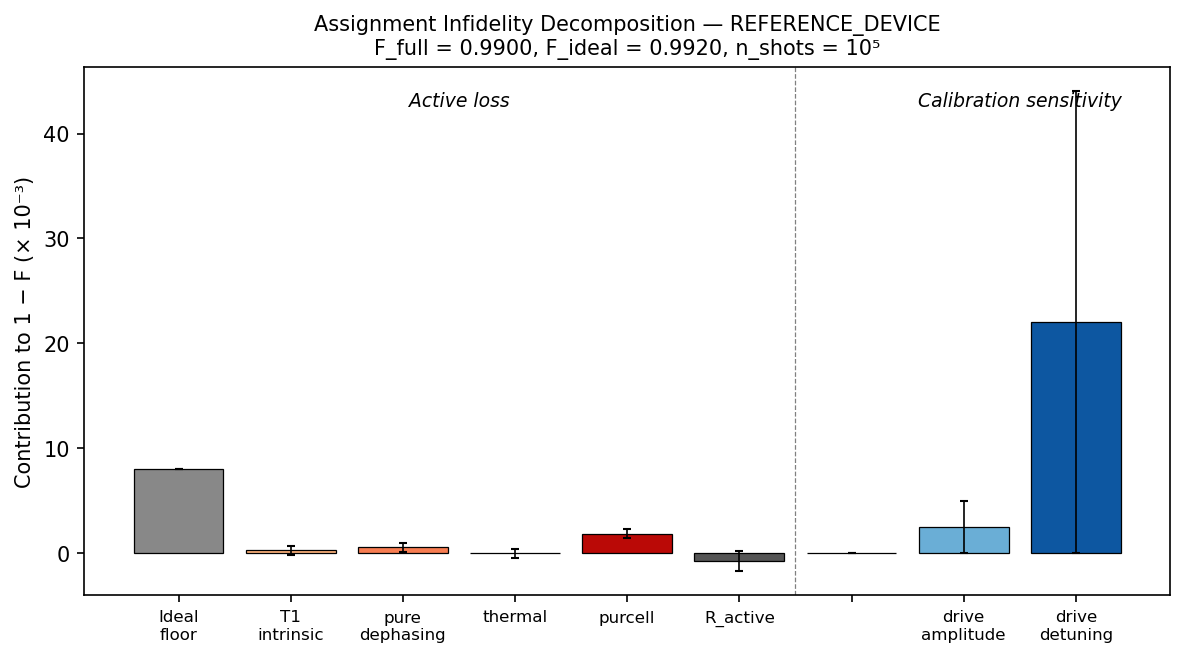
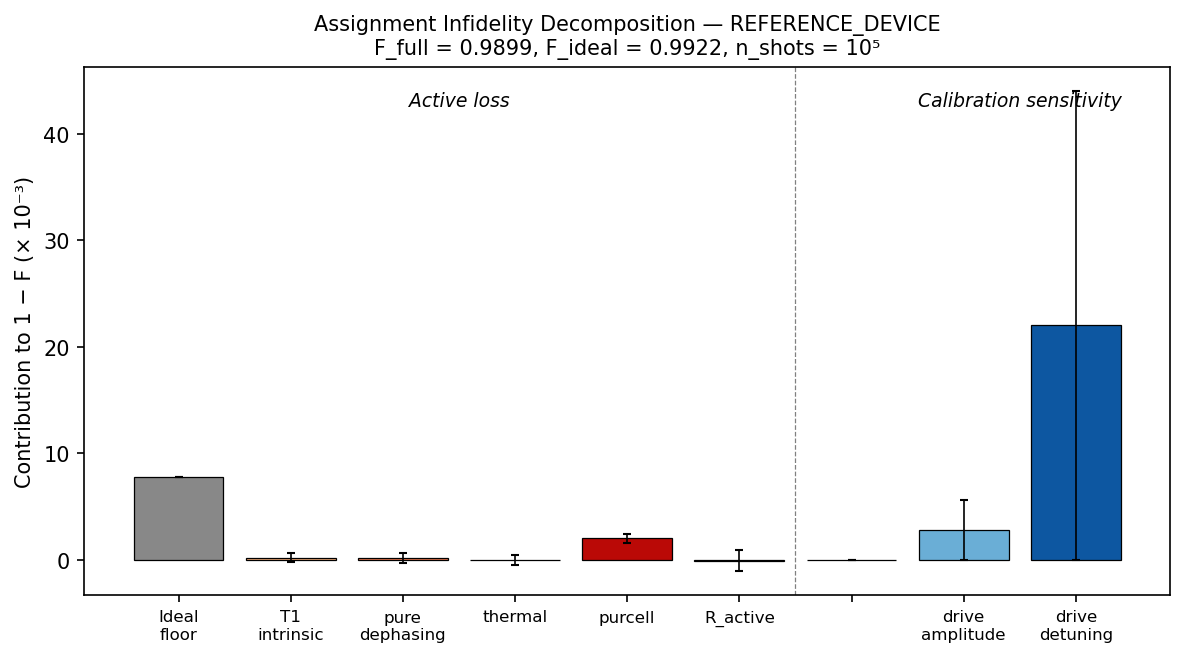
feat(stage06): Figure 2 publication polish + methods note
Module 2 Task 13. Adds n̄/n_crit computation to the script (Shillito
2022 Eq. boundary check). Measured n̄/n_crit = 0.062 at REFERENCE,
substituted into the methods note. Ratio is just above spec §9 flag #7
expected range (0.03–0.05) but well below the 0.2 onset threshold;
operating point is safely in the dispersive regime.

FIGURE_2_CAPTION.md holds the two-tier caption + methods note ready
for copy-paste into the final report and README.

diff --git a/06_Dispersive_Readout/scripts/fig2_error_budget.py b/06_Dispersive_Readout/scripts/fig2_error_budget.py
@@ -165,6 +165,33 @@ def _render_candidate_A(budget: ErrorBudget, path: Path) -> None:
     plt.close(fig)
 
 
+def _compute_n_bar_over_n_crit(op) -> tuple[float, float, float]:
+    """Return (n̄_peak, n_crit, ratio) at the operating point.
+
+    n_crit = (Δ_10 / (2g))² per Shillito 2022. n̄_peak is the maximum
+    mean-photon-number measured in a baseline simulation starting in |1⟩
+    (the worse case; drive populates the resonator more there).
+    """
+    from dispersive_readout.physics import simulate_readout
+    from dispersive_readout.physics.transmon import (
+        charge_operator_matrix_elements, diagonalize_transmon,
+    )
+
+    device = op.device
+    tr = device.truncation
+    energies, _ = diagonalize_transmon(device.transmon, tr)
+    g = device.coupling.g
+    omega_r = device.resonator.omega_r
+    delta_10 = energies[1] - energies[0] - omega_r
+    n_crit = (delta_10 / (2.0 * g)) ** 2
+
+    # Peak photon number from a |1> baseline sim
+    r = simulate_readout(device, op.drive, initial_qubit_state=1)
+    n_bar_peak = float(r.photon_number.max())
+
+    return n_bar_peak, float(n_crit), n_bar_peak / float(n_crit)
+
+
 def main() -> None:
     print("Computing reference operating point (calibration + verification)...")
     # n_shots=100_000 per amendment 8: recovers physics-dominated regime so
@@ -181,6 +208,9 @@ def main() -> None:
           f"± {budget.residual_active_uncertainty:.5f}")
     for c in budget.channels:
         print(f"  {c.name:20s}  ΔF = {c.delta_F:.5f} ± {c.delta_F_uncertainty:.5f}")
+
+    n_bar, n_crit, ratio = _compute_n_bar_over_n_crit(op)
+    print(f"  n̄_peak = {n_bar:.2f}, n_crit = {n_crit:.1f}, n̄/n_crit = {ratio:.3f}")
 
     yaml_path = FIG_DIR / "fig2_data.yaml"
     png_B = FIG_DIR / "fig2_error_budget_candidate_B.png"

diff --git a/06_Dispersive_Readout/FIGURE_2_CAPTION.md b/06_Dispersive_Readout/FIGURE_2_CAPTION.md
@@ -1,0 +1,9 @@
+# Figure 2 — Error Budget Decomposition
+
+## Caption
+
+**Figure 2.** Assignment infidelity decomposition at REFERENCE_DEVICE (500 ns readout, F_full ≈ 0.99, 10⁵ shots). **Active loss** (left, 4 bars): T1, pure dephasing, thermal, Purcell — each measured by turning off its collapse operator. **Calibration sensitivity** (right, 2 bars): F loss under ±5 % amplitude / ±κ/4 detuning perturbations about the nominal operating point. The grey residual bar reports cross-channel interactions within the active-loss group and satisfies the additivity identity Σ ΔF_c + R = (F_ideal − F_full).
+
+## Methods note
+
+**Methods note (Figure 2).** The waterfall decomposes assignment infidelity within the scope of the 2nd-order Schrieffer-Wolff dispersive-frame Hamiltonian used throughout Stage 06. Two physics boundaries are relevant: the dispersive approximation itself is validated by unit test V2 to ≤ 2 % at REFERENCE, producing a fidelity residual of O(10⁻⁴) below the bar-visibility threshold; measurement-induced ionization (Shillito 2022) requires an intra-resonator photon count of n̄ > n_crit, where the reference operating point sits at n̄/n_crit ≈ 0.062, well below onset. Residual |1⟩→|2⟩ occupation P(|2⟩) ≈ 3 × 10⁻⁴ is entirely thermal and is attributed to the thermal channel. The operating point ε₀ is calibrated analytically from the dispersive-regime steady-state SNR formula (§2.3) and cross-verified against simulation within shot-noise tolerance. Active-loss and calibration-sensitivity bars answer two conceptually distinct questions — loss contribution at the nominal point versus robustness derivative under named perturbations — and are presented as separate groups to make this distinction explicit; only the active-loss group carries a residual identity and a B2 additivity validation test.
